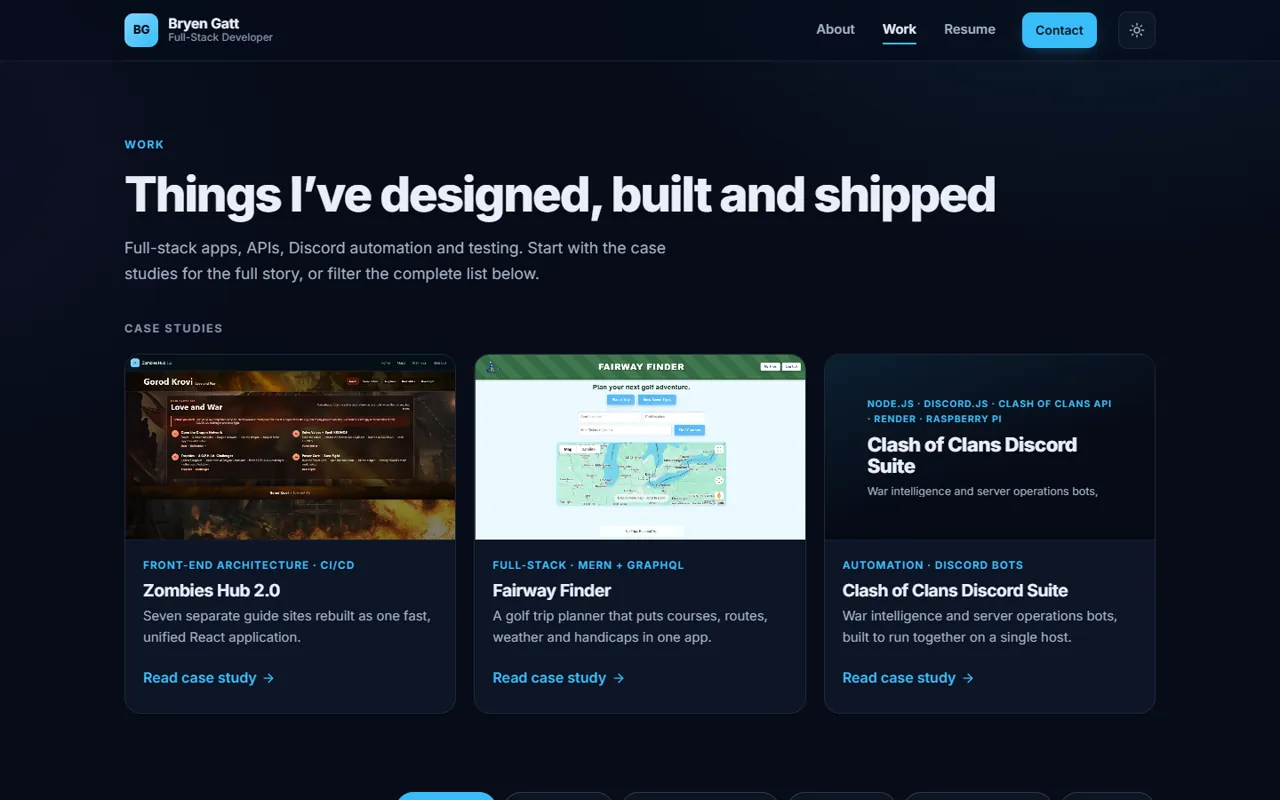
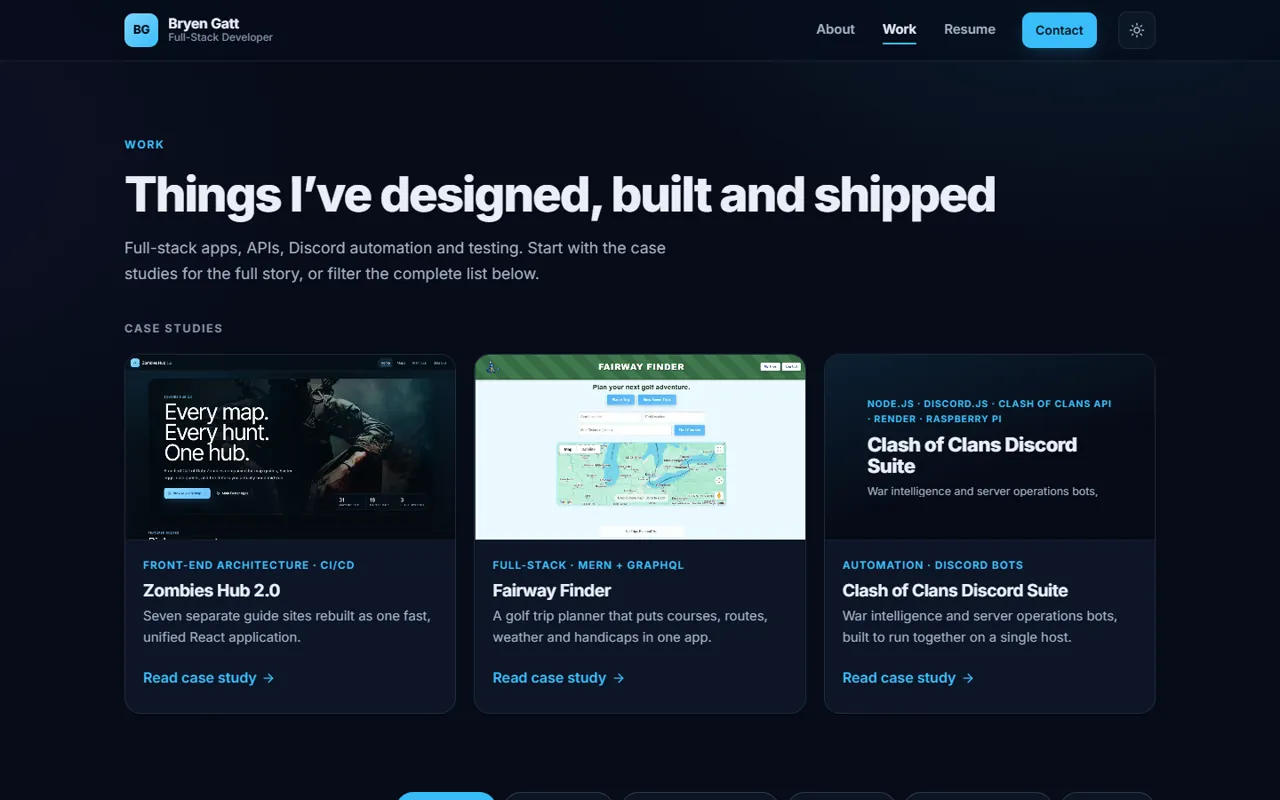
Refresh portfolio cover with the Zombies Hub 2.0 home page

Changed region(s): [[0.0938, 0.4375, 0.375, 0.6875]]

diff --git a/docs/IMAGE-AUDIT.md b/docs/IMAGE-AUDIT.md
@@ -1,6 +1,6 @@
 # Project image audit
 
-> **Update 2026-10-25 (canonical covers).** Each project with a real capture now owns `docs/portfolio/cover.webp` on its `main` branch, and `src/data/screenshots.js` loads it from `raw.githubusercontent.com`. Fresh live captures: Zombies Hub 2.0 (Gorod Krovi guide), MERN Book Search (results for "Dune"), Kanban (public demo board), Candidate Search (reference profile, avatar blurred), Weather (Chicago forecast). Reused real captures: Fairway Finder (signed-in map view, already its README image), The Daily Bytes (`Project.png`), and the seven legacy guides (April 2025 PNGs below). This repo's own cover is bundled locally because its default branch (`sandbox`) does not carry unreleased work.
+> **Update 2026-10-25 (canonical covers).** Each project with a real capture now owns `docs/portfolio/cover.webp` on its `main` branch, and `src/data/screenshots.js` loads it from `raw.githubusercontent.com`. Fresh live captures: Zombies Hub 2.0 (home page), MERN Book Search (results for "Dune"), Kanban (public demo board), Candidate Search (reference profile, avatar blurred), Weather (Chicago forecast). Reused real captures: Fairway Finder (signed-in map view, already its README image), The Daily Bytes (`Project.png`), and the seven legacy guides (April 2025 PNGs below). This repo's own cover is bundled locally because its default branch (`sandbox`) does not carry unreleased work.
 > **Typographic fallback, by design:** War Oracle, Clash Commander, raspbi-pilot and Captain Hook (Discord bots; no real capture without exposing server/member names), Social Network API (no UI), Tech Quiz (repo GIF is the bootcamp's demo), Python Banking (repo images are labelled mock-ups). The findings below are the original audit.
 
 Audited 2026-10-23 on branch `sandbox` (commit `752579a`), compared with `origin/gandalf/rework-2026-10-15` using remote-tracking refs that may be stale. Nothing has been changed yet; this file records findings only.
